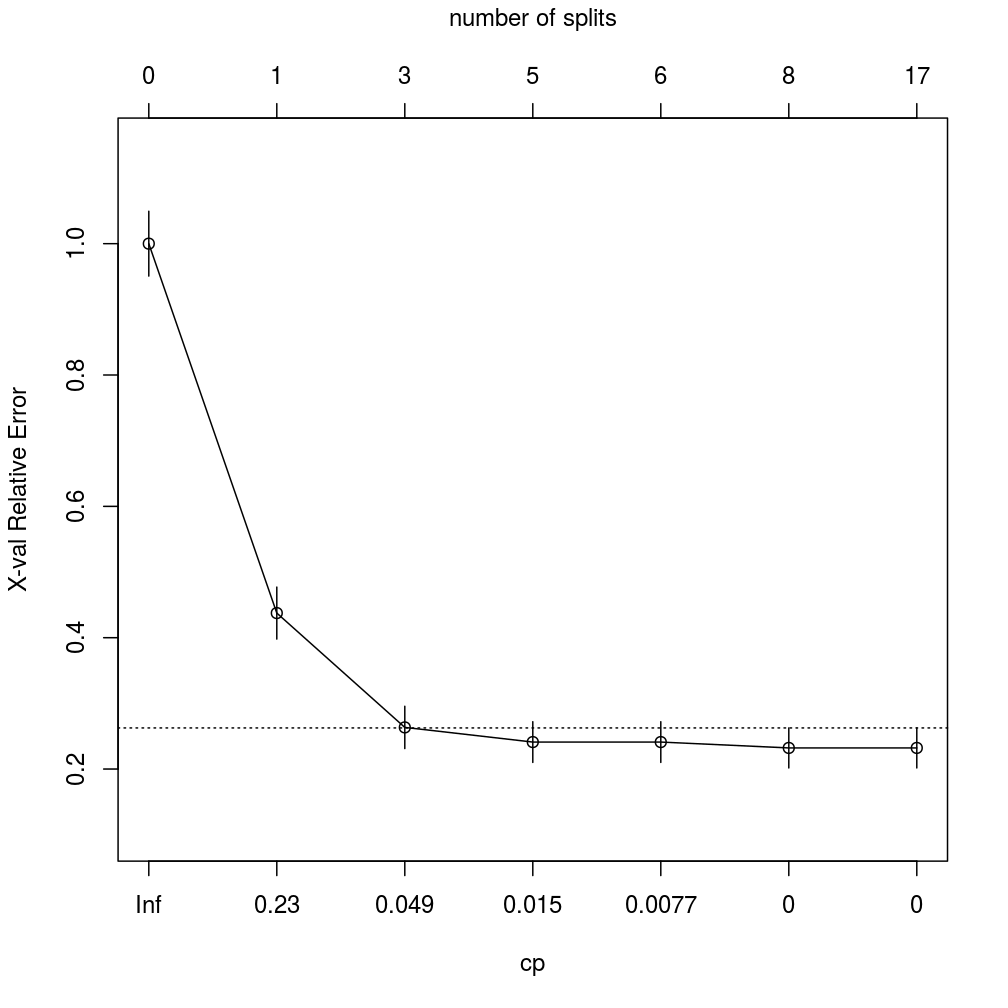
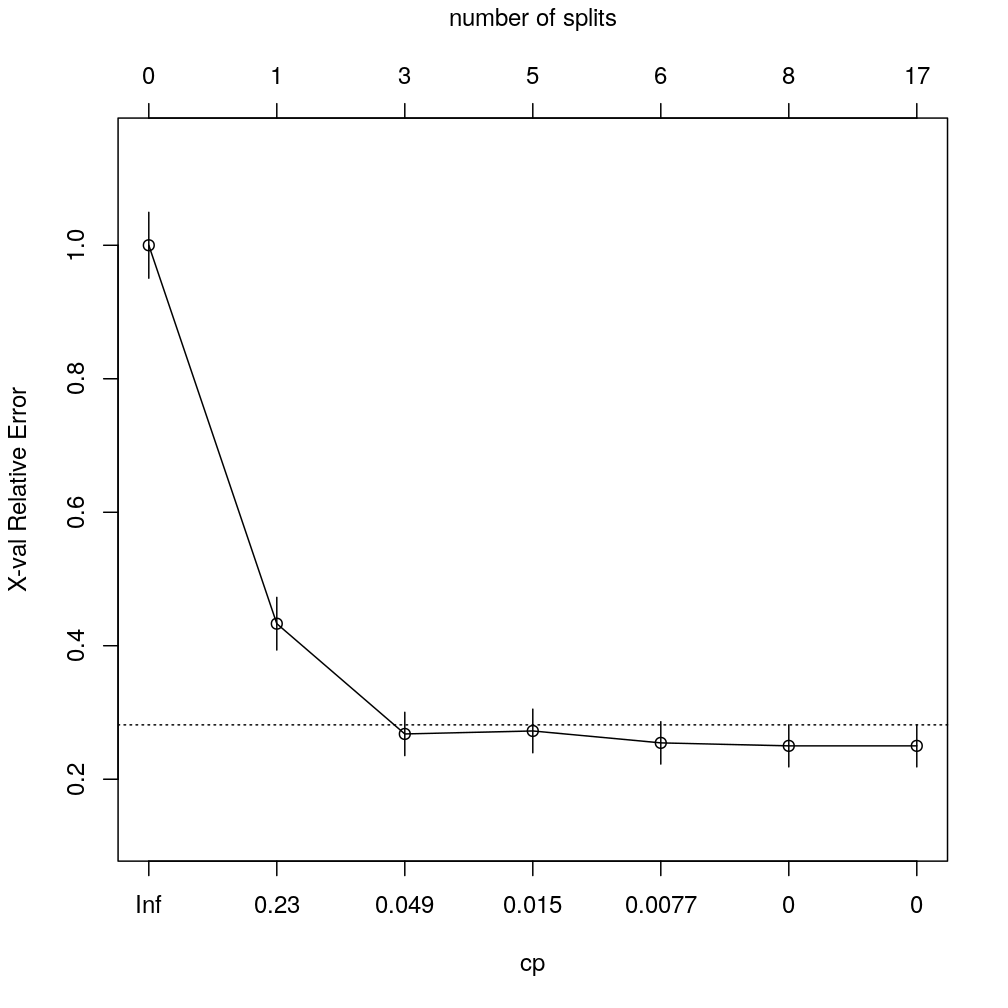
Some updates on decision trees

diff --git a/_posts/2017-10-17-classification.md b/_posts/2017-10-17-classification.md
@@ -119,12 +119,12 @@ printcp(M$complex.tree)
 ## 
 ##           CP nsplit rel error  xerror     xstd
 ## 1  0.5803571      0   1.00000 1.00000 0.049313
-## 2  0.0892857      1   0.41964 0.43750 0.039549
-## 3  0.0267857      3   0.24107 0.26339 0.032169
-## 4  0.0089286      5   0.18750 0.24107 0.030953
-## 5  0.0066964      6   0.17857 0.24107 0.030953
-## 6  0.0000000      8   0.16518 0.23214 0.030444
-## 7 -1.0000000     17   0.16518 0.23214 0.030444
+## 2  0.0892857      1   0.41964 0.43304 0.039396
+## 3  0.0267857      3   0.24107 0.26786 0.032403
+## 4  0.0089286      5   0.18750 0.27232 0.032634
+## 5  0.0066964      6   0.17857 0.25446 0.031692
+## 6  0.0000000      8   0.16518 0.25000 0.031449
+## 7 -1.0000000     17   0.16518 0.25000 0.031449
 ```
 
 ```r
